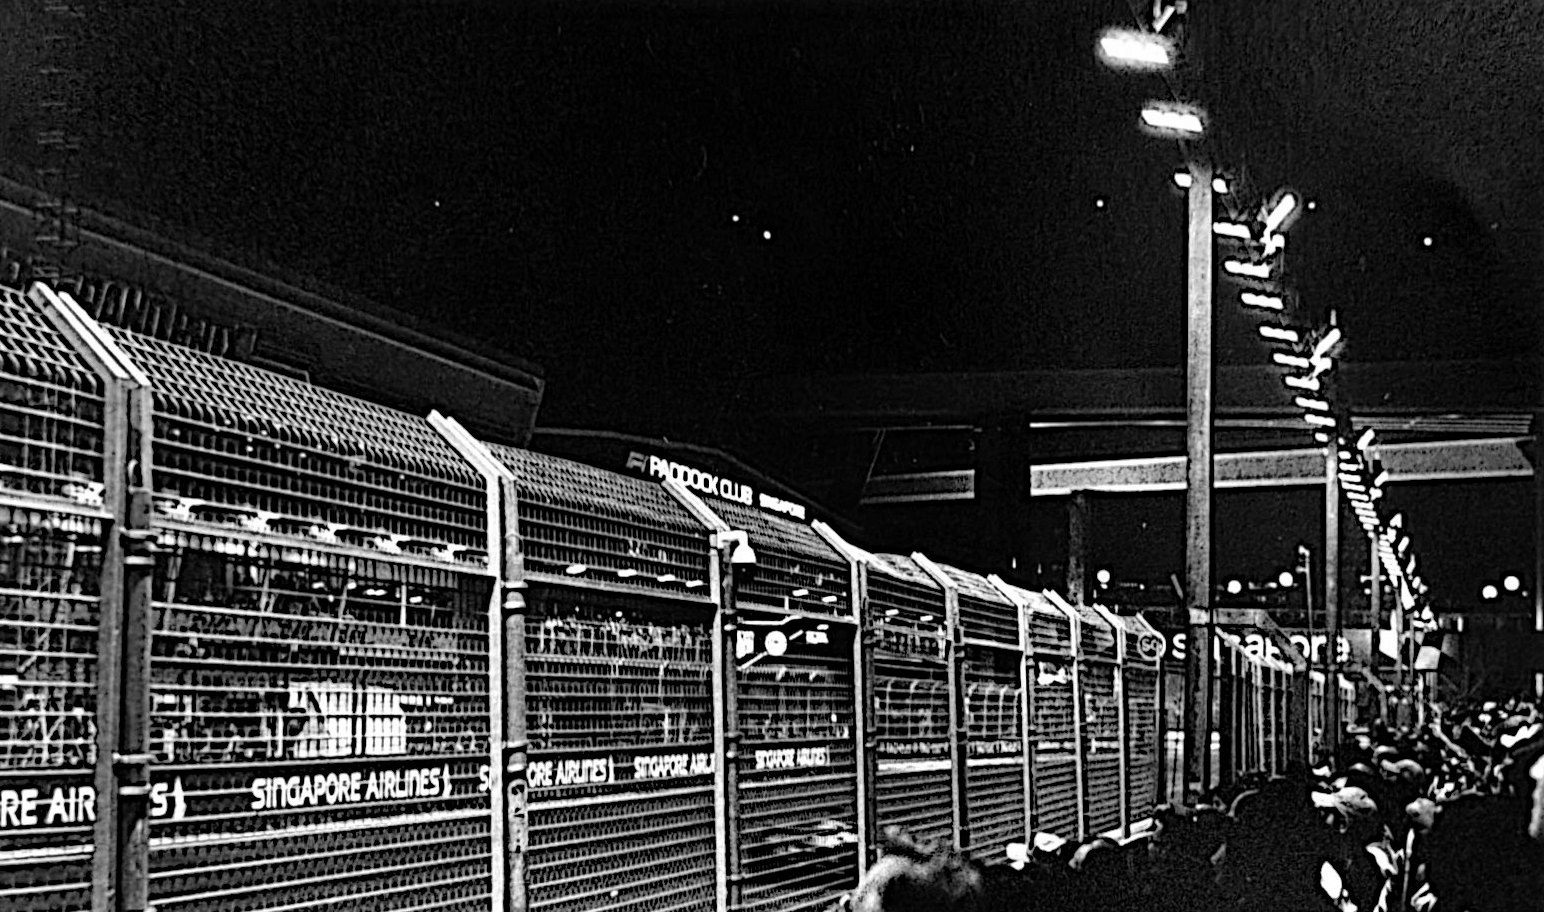
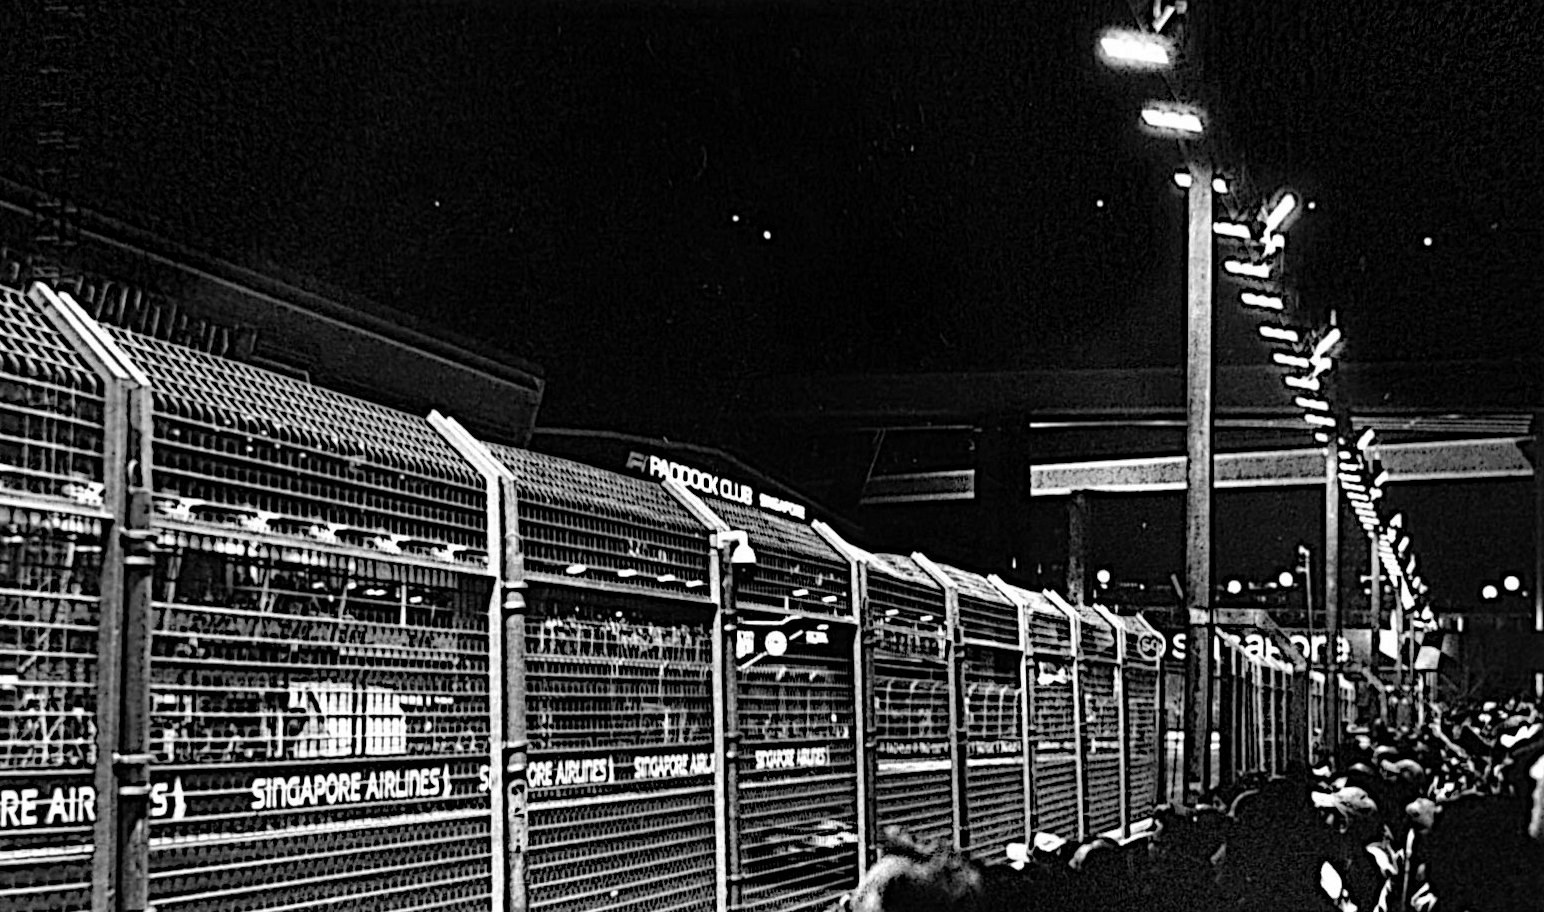
Clear hard-edged glare from the night skies; rename two photographs
A second pass in tools/veil.py removes the outline of the glare patch
in the top corners of the first two photographs. The second is now
Victory Lap and the third Trackside, Marina Bay.

Claude-Session: https://claude.ai/code/session_01R2tScxRzjUHszpw5FmpwEp

Changed region(s): [[0.8705, 0.0, 1.0, 0.0921], [0.0, 0.1842, 0.1244, 0.307], [0.0, 0.0, 0.0622, 0.0921]]

diff --git a/photos.js b/photos.js
@@ -1,6 +1,6 @@
 // Photographs shown on the site, in order. Add a file to /photos and a line here. `year` is optional.
 window.PHOTOS = [
   { src: "01.jpg", w: 1544, h: 912,  title: "Catch Fence", place: "Singapore" },
-  { src: "02.jpg", w: 1999, h: 1237, title: "Arm in Arm",  place: "Singapore" },
-  { src: "03.jpg", w: 2000, h: 1306, title: "Palms",       place: "Singapore" }
+  { src: "02.jpg", w: 1999, h: 1237, title: "Victory Lap", place: "Singapore" },
+  { src: "03.jpg", w: 2000, h: 1306, title: "Trackside, Marina Bay", place: "Singapore" }
 ];

diff --git a/tools/veil.py b/tools/veil.py
@@ -4,7 +4,7 @@
 # so they are skipped and filled in from their neighbours. The veil map is smoothed, enlarged
 # to the picture and subtracted, so black is the same black everywhere.
 import sys, numpy as np
-from PIL import Image
+from PIL import Image, ImageFilter
 def blur(m, s):
     r = int(s * 3) + 1; k = np.exp(-np.arange(-r, r + 1) ** 2 / (2 * s * s))
     f = lambda v: np.convolve(v, k, 'same')
@@ -18,6 +18,18 @@ def veil(a, R=18, C=27):
     V = blur(D * M, 1.3) / np.maximum(blur(M, 1.3), 1e-3)
     V = np.asarray(Image.fromarray(V.astype(np.float32), 'F').resize((w, h), Image.BICUBIC))
     return np.clip(V, 0, None), M.mean()
+# Second pass for glare with a hard edge, which the smooth estimate cannot follow. Only inside the zones the
+# first pass found veiled, and only where the picture is flat and dark (night sky), the local tone is brought
+# down to the level of the same kind of sky outside those zones, so the outline of the glare patch disappears.
+# Detail, lit areas and grey surfaces are untouched. Meant for night skies; pass "fine" to use it.
+def residue(b, V, gate=8, dark=45, flat=45):
+    u = Image.fromarray(np.clip(b, 0, 255).astype(np.uint8)); med = u.filter(ImageFilter.MedianFilter(21))
+    lo = np.asarray(med.filter(ImageFilter.MinFilter(41))).astype(np.float32); hi = np.asarray(med.filter(ImageFilter.MaxFilter(41))).astype(np.float32)
+    m = np.asarray(med).astype(np.float32); zone = np.asarray(Image.fromarray(((V > gate) * 255).astype(np.uint8)).filter(ImageFilter.MaxFilter(61))) > 0
+    soft = np.asarray(med.filter(ImageFilter.GaussianBlur(4))).astype(np.float32); sky = (hi - lo < flat) & (m < dark); out = sky & ~zone
+    base = float(np.median(soft[out])) if out.sum() > 2000 else 0.0
+    feather = np.asarray(Image.fromarray(((sky & zone) * 255).astype(np.uint8)).filter(ImageFilter.GaussianBlur(9))).astype(np.float32) / 255
+    return np.clip(soft - base, 0, None) * feather, feather.mean(), base
 def tiles(a, R=6, C=10):
     h, w = a.shape
     return '\n'.join('  ' + ' '.join('%3d' % np.percentile(a[r*h//R:(r+1)*h//R, c*w//C:(c+1)*w//C], 2) for c in range(C)) for r in range(R))
@@ -26,6 +38,8 @@ if __name__ == '__main__':
     a = np.asarray(Image.open(src).convert('L')).astype(np.float32)
     V, used = veil(a); print(src, 'veil max %.0f, mean %.1f, dark regions used %.0f%%' % (V.max(), V.mean(), used * 100))
     b = np.clip((a - V) * 255.0 / np.maximum(255.0 - V, 1), 0, 255)     # glare also compresses the range; restore it
+    if len(sys.argv) > 4 and sys.argv[4] == 'fine':
+        V2, share, base = residue(b, V, dark=float(sys.argv[5]) if len(sys.argv) > 5 else 45); b = np.clip(b - V2, 0, 255); print('second pass: %.1f%% of the picture, up to %.0f removed, sky level kept at %.0f' % (share * 100, V2.max(), base))
     print(tiles(b))
     if gamma != 1: lo, hi = np.percentile(b, .5), np.percentile(b, 99.7); b = np.clip((b - lo) / (hi - lo), 0, 1) ** gamma * 255
     Image.fromarray(b.astype(np.uint8)).save(dst, quality=88)
